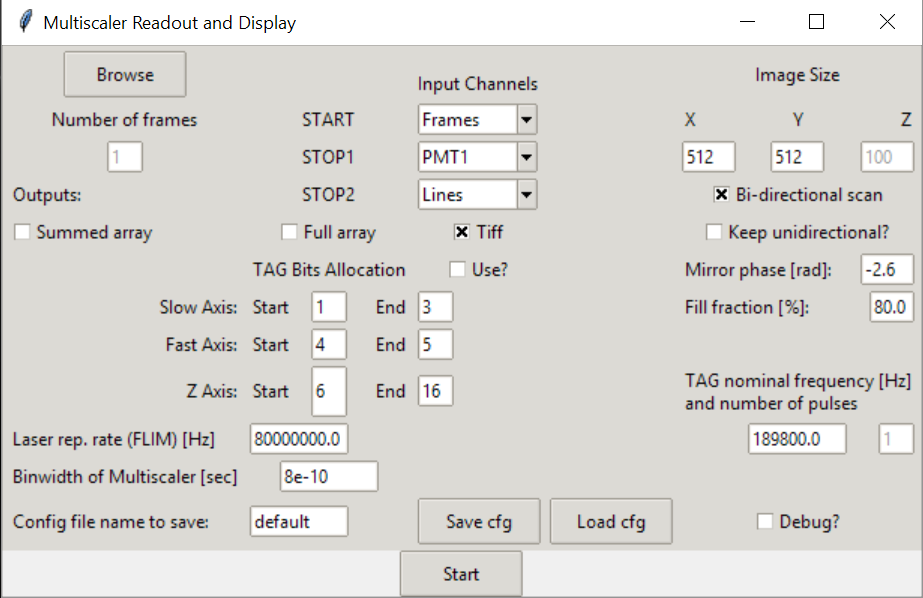
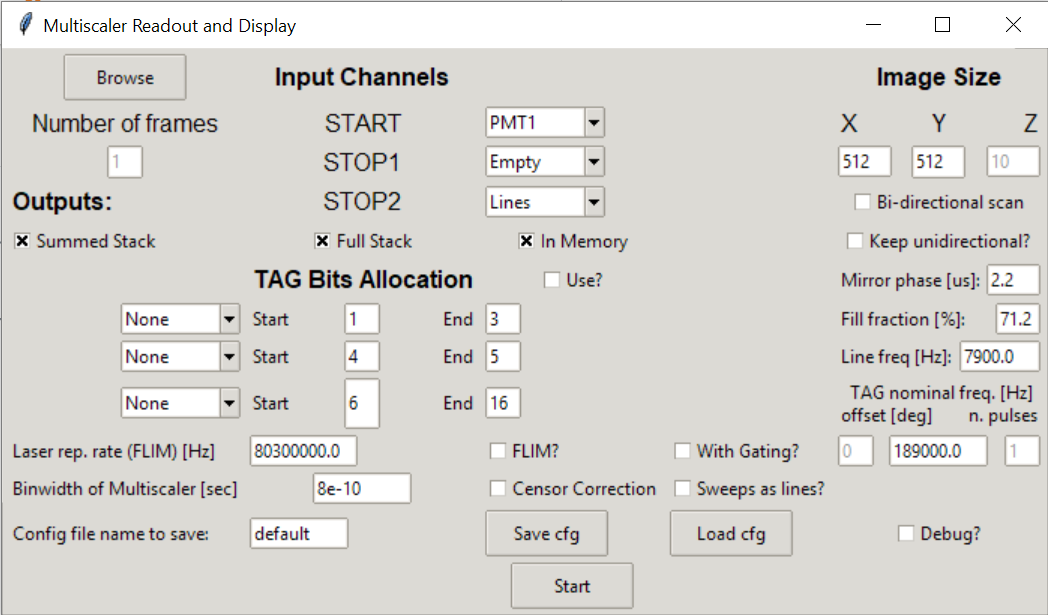
Docs updates and type annotations

diff --git a/src/pysight/movie_tools.py b/src/pysight/movie_tools.py
@@ -8,7 +8,7 @@ from attr.validators import instance_of
 import matplotlib.pyplot as plt
 import numpy as np
 import pandas as pd
-from typing import List, Iterator, Tuple, Iterable, Dict
+from typing import List, Iterator, Tuple, Iterable, Dict, Generator
 from numba import jit, float64, uint64, int64
 from collections import OrderedDict, namedtuple, deque
 import warnings
@@ -89,12 +89,12 @@ class Movie(object):
         photons_per_pulse = {}
         if self.num_of_channels == 1:
             photons_per_pulse[1] = self.data.shape[0] / num_of_pulses
-            return photons_per_pulse
         else:
             for chan in range(self.num_of_channels):
                 photons_per_pulse[chan] = self.data.loc[chan]
+        return photons_per_pulse
 
-    def run(self):
+    def run(self) -> None:
         """
         Main pipeline for the movie object
         :return:
@@ -103,7 +103,7 @@ class Movie(object):
         self.__print_outputs()
         print("Movie object created, analysis done.")
 
-    def gen_of_volumes(self, channel_num: int) -> Iterator:
+    def gen_of_volumes(self, channel_num: int) -> Generator:
         """
         Populate the deque containing the volumes as a generator.
         Creates a list for each channel in the data. Channels start with 1.
@@ -174,7 +174,7 @@ class Movie(object):
         for func in funcs_to_execute_end:
             func()
 
-    def __save_stack_at_once(self):
+    def __save_stack_at_once(self) -> None:
         """ Save the entire in-memory stack into .hdf5 file """
         with h5py_cache.File(f'{self.outputs["filename"]}', 'a', chunk_cache_mem_size=self.cache_size,
                              libver='latest', w0=1) as f:
@@ -182,25 +182,25 @@ class Movie(object):
             for channel in range(1, self.num_of_channels + 1):
                 f["Full Stack"][f"Channel {channel}"][...] = self.stack[channel]
 
-    def __save_summed_at_once(self):
+    def __save_summed_at_once(self) -> None:
         """ Save the netire in-memory summed data into .hdf5 file """
         with h5py_cache.File(f'{self.outputs["filename"]}', 'a', chunk_cache_mem_size=self.cache_size,
                              libver='latest', w0=1) as f:
             for channel in range(1, self.num_of_channels + 1):
                 f["Summed Stack"][f"Channel {channel}"][...] = np.squeeze(self.summed_mem[channel])
 
-    def __close_file(self):
+    def __close_file(self) -> None:
         """ Close the file pointer of the specific channel """
         self.outputs['stack'].file.close()
 
-    def __convert_deque_to_arr(self):
+    def __convert_deque_to_arr(self) -> None:
         """ Convert a deque with a bunch of frames into a single numpy array with an extra
         dimension (0) containing the data.
         """
         for channel in range(1, self.num_of_channels + 1):
             self.stack[channel] = np.squeeze(np.stack(self.stack[channel], axis=0))
 
-    def __create_memory_output(self, data: np.ndarray, channel: int, **kwargs):
+    def __create_memory_output(self, data: np.ndarray, channel: int, **kwargs) -> None:
         """
         If the user desired, create two memory constructs -
         A summed array of all images (for a specific channel), and a stack containing
@@ -211,7 +211,7 @@ class Movie(object):
         self.stack[channel].append(data)
         self.summed_mem[channel] += np.uint16(data)
 
-    def __save_stack_incr(self, data: np.ndarray, channel: int, vol_num: int):
+    def __save_stack_incr(self, data: np.ndarray, channel: int, vol_num: int) -> None:
         """
         Save incrementally new data to an open file on the disk
         :param data: Data to save
@@ -220,7 +220,7 @@ class Movie(object):
         """
         self.outputs['stack'][f'Channel {channel}'][vol_num, ...] = np.squeeze(data)
 
-    def __append_summed_data(self, data: np.ndarray, channel: int, **kwargs):
+    def __append_summed_data(self, data: np.ndarray, channel: int, **kwargs) -> None:
         """
         Create a summed variable later to be saved as the channel's data
         :param data: Data to be saved
@@ -275,7 +275,7 @@ class Movie(object):
         else:
             self.__show_stack_no_flim(channel=channel, slice_range=slice_range)
 
-    def __show_stack_no_flim(self, channel: int, slice_range: Iterable):
+    def __show_stack_no_flim(self, channel: int, slice_range: Iterable) -> None:
         """ Show the slices from the generated stack """
 
         img = None
@@ -288,7 +288,7 @@ class Movie(object):
             plt.pause(0.1)
             plt.draw()
 
-    def __show_stack_flim(self, channel: int, slice_range: Iterable):
+    def __show_stack_flim(self, channel: int, slice_range: Iterable) -> None:
         """ Show the slices from the generated stack that contains FLIM data """
 
         for frame in slice_range:
@@ -365,14 +365,14 @@ class Volume(object):
         return metadata
 
     @property
-    def tag_period(self):
+    def tag_period(self) -> int:
         return int(np.ceil(1 / (self.tag_freq * self.binwidth)))
 
     @property
-    def dimensions_iterable(self):
+    def dimensions_iterable(self) -> List:
         return [self.x_pixels, self.y_pixels, self.z_pixels, int(np.ceil(1 / (self.reprate * self.binwidth)))]
 
-    def __create_hist_edges(self):
+    def __create_hist_edges(self) -> Tuple[List, int]:
         """
         Create three vectors that will create the grid of the frame. Uses Numba internal function for optimization.
         :return: Tuple of np.array
@@ -467,7 +467,7 @@ def create_linspace(start, stop, num):
 
 
 def metadata_ydata(data: pd.DataFrame, jitter: float=0.02, bidir: bool=True, fill_frac: float=0,
-                   delta: int=158000, sweeps: bool=False):
+                   delta: int=158000, sweeps: bool=False) -> Tuple[int, int]:
     """
     Create the metadata for the y-axis.
 

diff --git a/src/pysight/tkinter_gui_multiscaler.py b/src/pysight/tkinter_gui_multiscaler.py
@@ -4,6 +4,7 @@ __author__ = Hagai Hargil
 from tkinter import *
 from tkinter import ttk
 from tkinter import filedialog
+from tkinter import font as tkfont
 import json
 from typing import Dict, Union, Tuple, Iterable
 from pathlib import Path, WindowsPath
@@ -53,6 +54,8 @@ class GUIApp(object):
         main_frame['borderwidth'] = 2
         style = ttk.Style()
         style.theme_use('clam')
+        self.normal_font = tkfont.Font(family='Helvetica', size=12)
+        self.bold_font = tkfont.Font(family='Helvetica', size=12, weight='bold')
 
         # Run widgets
         self.__browse_file(main_frame)
@@ -96,7 +99,7 @@ class GUIApp(object):
 
     def __input_channels(self, main_frame):
         # Comboboxes
-        input_channels_label = ttk.Label(main_frame, text='Input Channels')
+        input_channels_label = ttk.Label(main_frame, text='Input Channels', font=self.bold_font)
         input_channels_label.grid(column=1, row=0, sticky='ns')
         self.input_start = StringVar()
         self.input_stop1 = StringVar()
@@ -116,17 +119,17 @@ class GUIApp(object):
         mb3['values'] = self.tuple_of_data_sources
 
         # Labels
-        input_channel_1 = ttk.Label(main_frame, text='START')
+        input_channel_1 = ttk.Label(main_frame, text='START', font=self.normal_font)
         input_channel_1.grid(column=1, row=1, sticky='ns')
-        input_channel_2 = ttk.Label(main_frame, text='STOP1')
+        input_channel_2 = ttk.Label(main_frame, text='STOP1', font=self.normal_font)
         input_channel_2.grid(column=1, row=2, sticky='ns')
-        input_channel_3 = ttk.Label(main_frame, text='STOP2')
+        input_channel_3 = ttk.Label(main_frame, text='STOP2', font=self.normal_font)
         input_channel_3.grid(column=1, row=3, sticky='ns')
 
     def __num_of_frames(self, main_frame):
 
         # Number of frames in the data
-        frame_label = ttk.Label(main_frame, text='Number of frames')
+        frame_label = ttk.Label(main_frame, text='Number of frames', font=self.normal_font)
         frame_label.grid(column=0, row=1, sticky='ns')
 
         self.num_of_frames = IntVar(value=1)
@@ -144,7 +147,7 @@ class GUIApp(object):
 
     def __outputs(self, main_frame):
         """ Wanted outputs """
-        outputs_label = ttk.Label(main_frame, text='Outputs:')
+        outputs_label = ttk.Label(main_frame, text='Outputs:', font=self.bold_font)
         outputs_label.grid(column=0, row=3, sticky='w')
 
         self.summed = BooleanVar(value=False)
@@ -159,13 +162,13 @@ class GUIApp(object):
 
     def __image_size(self, main_frame):
         # Define image sizes
-        image_size_label = ttk.Label(main_frame, text='Image Size')
+        image_size_label = ttk.Label(main_frame, text='Image Size', font=self.bold_font)
         image_size_label.grid(column=6, row=0, sticky='ns')
-        x_size_label = ttk.Label(main_frame, text='X')
+        x_size_label = ttk.Label(main_frame, text='X', font=self.normal_font)
         x_size_label.grid(column=6, row=1, sticky='w')
-        y_size_label = ttk.Label(main_frame, text='Y')
+        y_size_label = ttk.Label(main_frame, text='Y', font=self.normal_font)
         y_size_label.grid(column=6, row=1, sticky='ns')
-        z_size_label = ttk.Label(main_frame, text='Z')
+        z_size_label = ttk.Label(main_frame, text='Z', font=self.normal_font)
         z_size_label.grid(column=6, row=1, sticky='e')
 
         self.x_pixels = IntVar(value=512)
@@ -221,7 +224,7 @@ class GUIApp(object):
     def __tag_lens(self, main_frame):
         """ TAG lens nominal frequency """
 
-        tag_label = ttk.Label(main_frame, text='TAG nominal freq. [Hz]\nn. of pulses and offset [deg]')
+        tag_label = ttk.Label(main_frame, text='  TAG nominal freq. [Hz]\noffset [deg]        n. pulses')
         tag_label.grid(column=6, row=8, sticky='ns')
         self.tag_freq = DoubleVar(value=0.189e6)
         tag_label_entry = ttk.Entry(main_frame, textvariable=self.tag_freq, width=10)
@@ -240,7 +243,7 @@ class GUIApp(object):
     def __tag_bits(self, main_frame):
         """ TAG bits """
 
-        tag_bits_label = ttk.Label(main_frame, text='TAG Bits Allocation')
+        tag_bits_label = ttk.Label(main_frame, text='TAG Bits Allocation', font=self.bold_font)
         tag_bits_label.grid(column=1, row=5, sticky='ns')
 
         self.tag_bits = BooleanVar(value=False)

diff --git a/src/pysight/rectify_lines.py b/src/pysight/rectify_lines.py
@@ -89,7 +89,7 @@ class LineRectifier:
         """
         return np.r_[self.lines, self.lines + self.end_time]
 
-    def __preprocess_unidir_lines(self):
+    def __preprocess_unidir_lines(self) -> np.ndarray:
         """
         Obtain the needed parameters for the rectify_lines method
         :return: np.ndarray generated by the rectify_lines method
@@ -105,7 +105,7 @@ class LineRectifier:
         return self.__rectify_lines(lines=lines, diffs=diffs, mean_val=mean_val,
                                     rel_idx=rel_idx)
 
-    def __preprocess_bidir_lines(self):
+    def __preprocess_bidir_lines(self) -> np.ndarray:
         """
         Obtain the needed parameters for the rectify_lines method
         :return: np.ndarray generated by the rectify_lines method

diff --git a/setup.py b/setup.py
@@ -87,16 +87,18 @@ setup(
     cmdclass = {'build_ext': CustomBuildExtCommand},
     install_requires=[
         'numpy >= 1.13',
-        'matplotlib >= 2.0',
-        'pandas >= 0.20',
-        'attrs >= 17.0',
-        'cython >= 0.24',
+        'matplotlib >= 2.1',
+        'pandas >= 0.21',
+        'attrs >= 17.30',
+        'cython >= 0.27',
         'tables',
-        'scipy',
+        'scipy >= 1',
         'scikit-learn',
         'h5py',
         'h5py-cache',
-        'tqdm'
+        'tqdm',
+        'numba',
+
     ],
     extras_require={
     },

diff --git a/docs/usage.rst b/docs/usage.rst
@@ -15,16 +15,26 @@ To use PySight do one of the following:
 
     python /path/to/pysight/dir/main_multiscaler_readout.py
 
+3. For batch processing of multiple list files::
 
-This command will open a GUI in which you'll have to choose a ``.lst`` file to parse.
+    from pysight import main_multiscaler_readout
 
-If you use option #1, The algorithm will create the pandas DataFrame ``df`` containing all data, and a ``movie`` object with allocated data. The output options are:
+    foldername: str = r'/path/to/folder/with/list/files'
+    globstr: str = ''  # a glob-pattern string to filter files to parse. Default is '*.lst'
+    recursive: bool = False  # Boolean whether to iterate over nested folders in the main folder
 
-* ``single`` - The algorithm will create a single ``n``-dimensional matrix that is the sum of all photon events in the list file. Each dimension corresponds to a recorded physical axis - frames, lines, laser pulse, etc. The variable is called ``movie.summed``.
-* ``array`` - Full-blown array containing all available data in separate frames\volumes, no aggregation like in ``single``. Access it from the ``.hist`` field of the generated object.
-* ``tiff`` - Outputs a ``.tif`` file with the same name as the file, in the same folder.
+    main_multiscaler_readout.run_batch(foldername=foldername, globstr=globstr, recursive=recursive)
 
-Obviously, if you run the script from the command line (option #2) you can only interact with the ``.tif`` file.
+These command will open a GUI in which you'll have to choose a ``.lst`` file to parse.
+
+If you use option #1, The algorithm will create the pandas DataFrame ``df`` containing all data, and a ``movie`` object with allocated data.
+Outputs come in the form of in-memory numpy arrays and ``.hdf5`` compressed multidimensional files. The output options are:
+
+* **In Memory** - The returned objects contain all photons and generated histograms. Use it if you wish to further process the data in Python. Access the data with the ``.hist`` field of the movie object.
+* **Full Stack** - PySight will save to disk a multidimensional histogram, one per spectral channel, with all of the events recorded. Dimensions are [t, x, y, z, tau].
+* **Summed Stack** - PySight will sum the t dimension of the Full Stack to received a summed projection over time of the entire experiment.
+
+Obviously, if you run the script from the command line (option #2) or in batch mode you can only interact with the final ``.hdf5`` files.
 
 GUI Options
 -----------
@@ -35,13 +45,13 @@ Running **PySight** will open GUI seen above.
 
 Choosing a ``.lst`` file for analysis is done with the *Browse* button, located at the top-left corner of the GUI.
 
-The *Input Channels* option allows you to specify what was the input device to all three of the analog inputs of the multiscaler.
+The *Input Channels* option allows you to specify what was the input device to all three (supported) of the analog inputs of the multiscaler.
 Note that at least one of these fields must be a ``PMT1`` entry.
 
-To the right, *Image Size* determines the shape of the output matrix from the algorithm.
+To the right, *Image Size* determines the shape of the output matrix from the algorithm. The X dimension corresponds to the line signal, and it should fit the original signal fed into the multiscaler.
 Below it you can check whether the mirrors acquired data in a bi-directional fashion.
 You should also specify, in case data was acquired uni-directionally, whether the algorithm should keep the photons arriving during that returning phase.
-Below, specify the phase delay of the scanners and fill fraction, to cancel pixel-shift and remove the non-linear area of the image, located in the edges.
+Below, specify the phase delay of the scanners and fill fraction, to cancel pixel-shift and remove the non-linear area of the image, located in the edges. Phase delay is only used in bidirectional mode.
 
 At the bottom part of the GUI you can load a specific ``.json`` file to be used as a config file. A default ``default.json`` file is shipped with the package,
 but other files can be saved and loaded easily, to allow easier use of the GUI. The full filename is also saved.
@@ -62,4 +72,4 @@ Limitations
 
 * List (``.lst``) files have to be saved in ``ASCII`` format, and not binary.
 
-* The code currently supports only three input channels, and a single PMT channel.
+* The code currently supports only three input channels.

diff --git a/docs/installation.rst b/docs/installation.rst
@@ -2,8 +2,6 @@
 Installation
 ============
 
-Due to some conflicting package dependencies and general Pythonian mess with packaging, installation works as follows:
-
 Users without Python installed:
 -------------------------------
 Download and install Anaconda_ for Python 3.6.
@@ -12,15 +10,13 @@ Download and install Anaconda_ for Python 3.6.
 
 It's usually good habit to create a new environment for new projects. At the command line:
 ::
-    conda create --name py36 python=3.6 numba -c conda-forge
+    conda create --name py36 python=3.6 -c conda-forge
     source activate py36
     pip install pysight
 
-
 Users who already installed Python
 ----------------------------------
-In a virtual environment install two of PySight's dependencies first, then install the package itself::
-    pip install numba
+In a virtual environment simply install PySight::
     pip install pysight
 
-The "Usage" tab provides more details on the operation of PySight.
+The "Usage" page provides more details on the operation of PySight.

diff --git a/CHANGELOG.rst b/CHANGELOG.rst
@@ -644,3 +644,12 @@ Changelog
 -------------------
 
 * Bug fix for empty volumes with multichannel support.
+
+0.6.32 (2017-12-XX)
+-------------------
+
+* Trial with Numba and setuptools.
+
+* Type annotations.
+
+* Documentation update.
